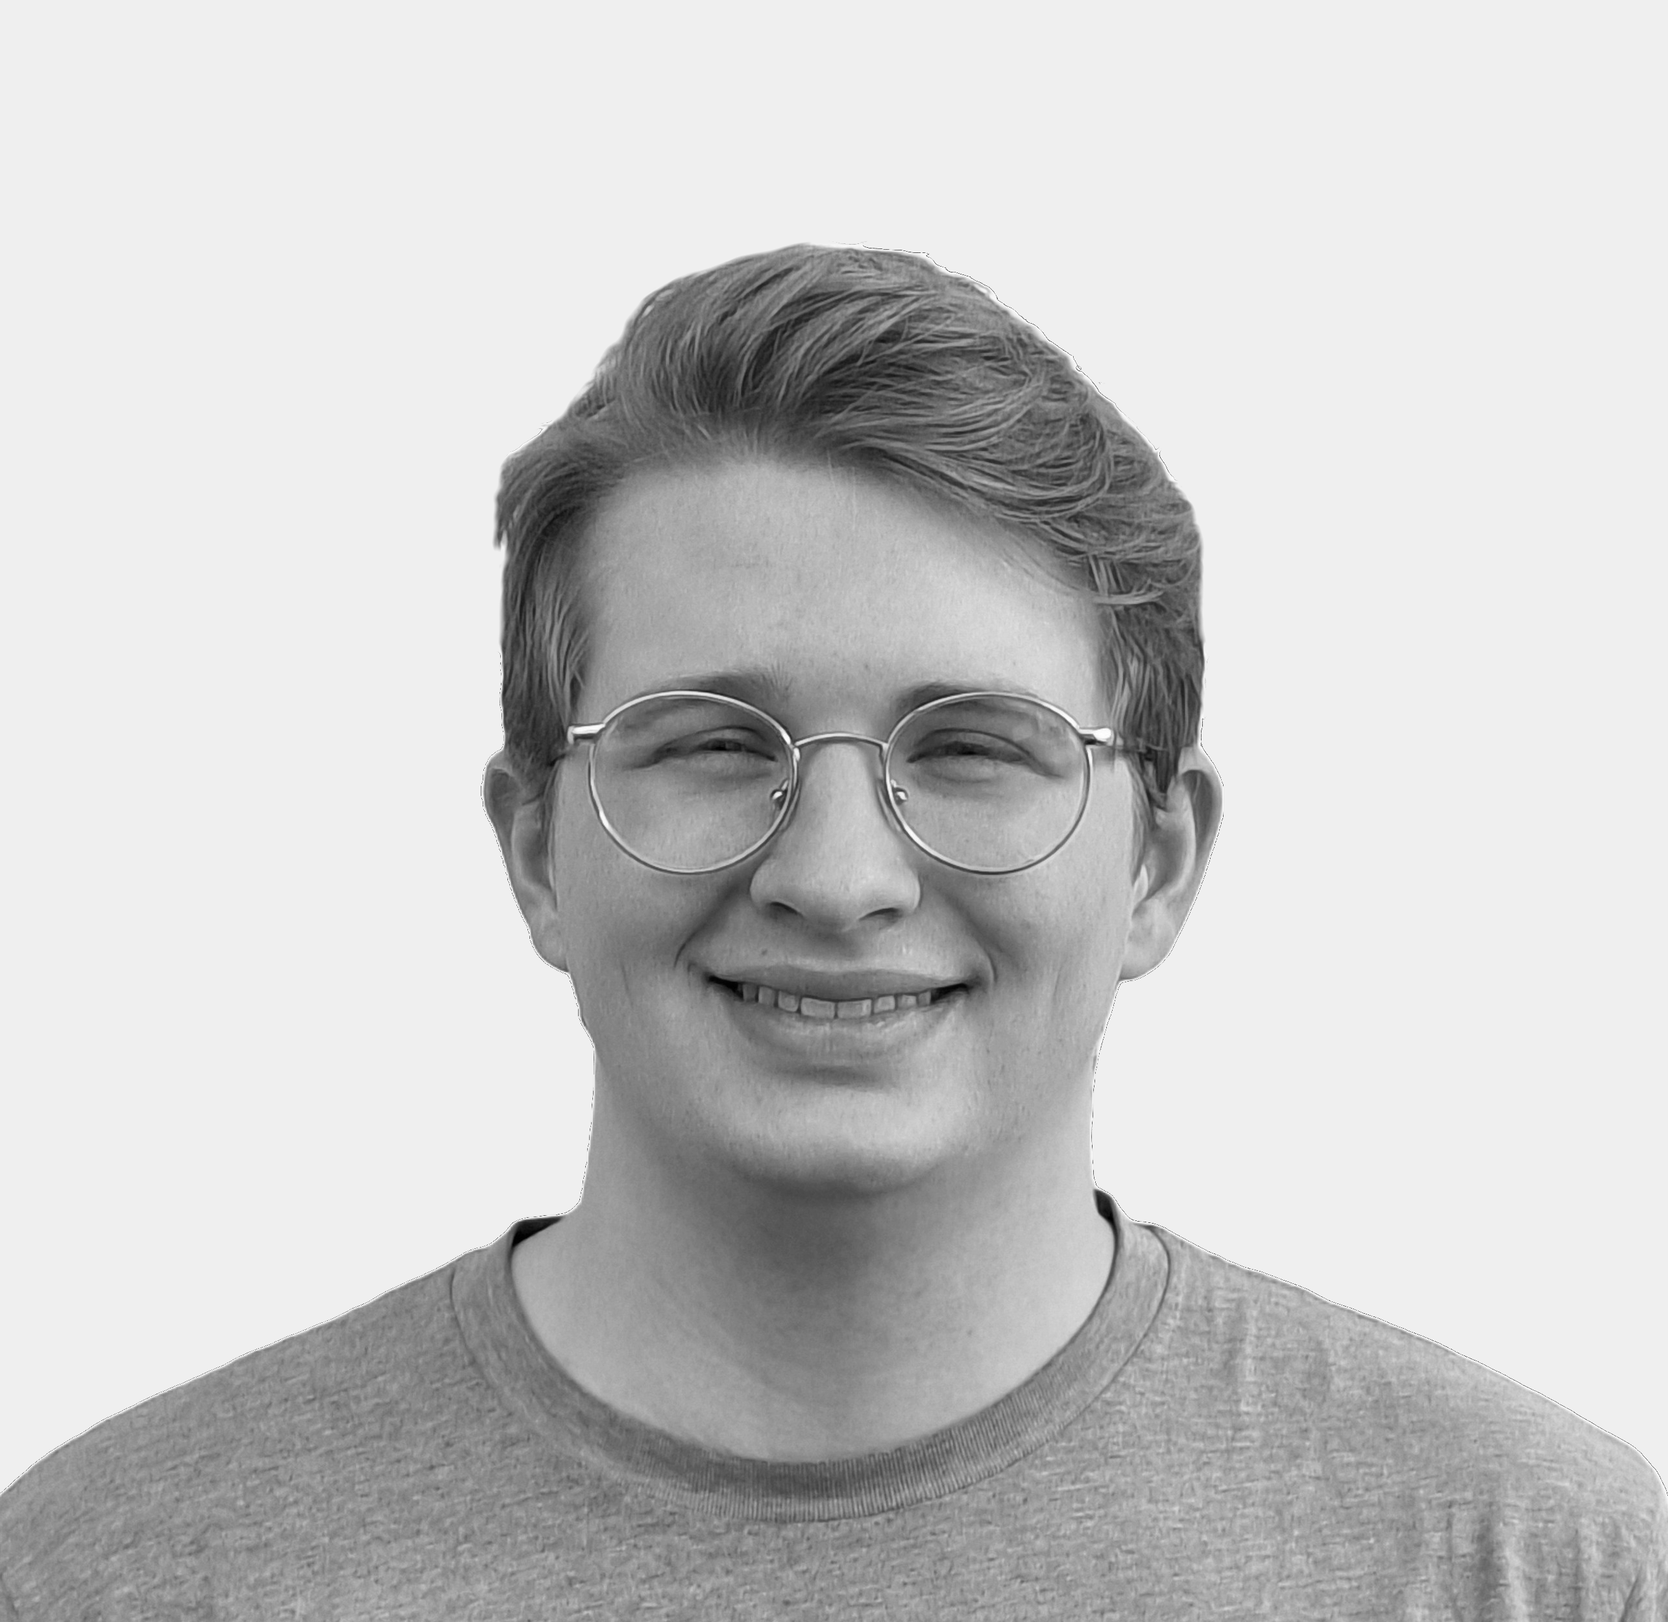
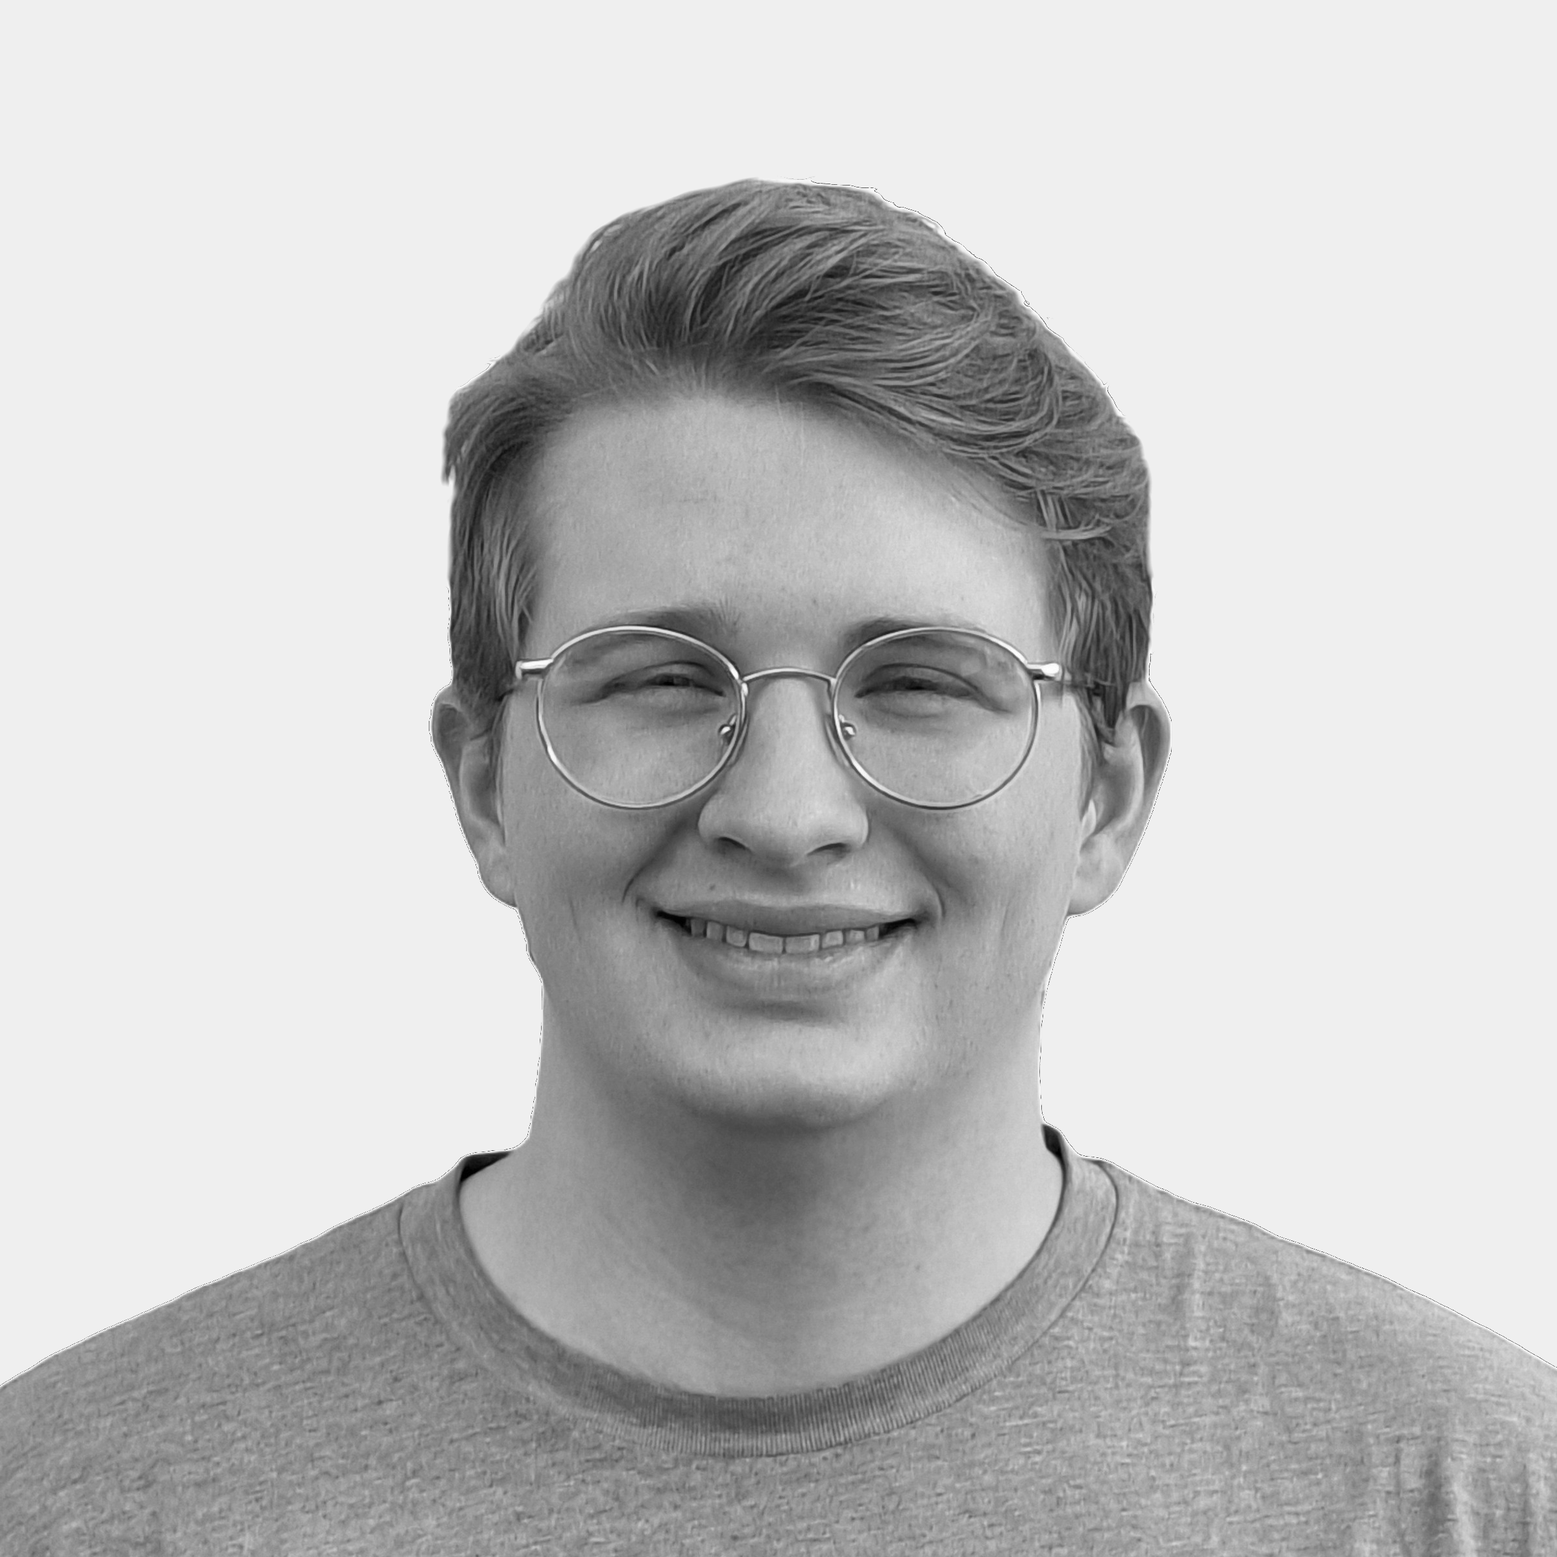
Added Michael, Anant, and Mike. Moved Blake to alumni. Fixed picture size of Zack and Ty

diff --git a/people.html b/people.html
@@ -165,8 +165,21 @@ http://themeforest.net/user/owwwlab/
                       </div>
                       <div class="links"><a href="about.html" target="_blank" data-toggle="tooltip"
                           data-original-title="Personal WebPage"><i
-                            class="oli oli-user_male_circle"></i></a><!--<a href="#" data-toggle="tooltip" data-original-title="Linkedin profile" data-toggle="tooltip"><i class="oli oli-linkedin"></i></a><a href="#" data-toggle="tooltip" data-original-title="Facebook"><i class="oli oli-facebook"></i></a><a href="#" data-toggle="tooltip" data-original-title="Twitter"><i class="oli oli-twitter"></i></a>-->
+                            class="oli oli-user_male_circle"></i></a>
                       </div>
+                    </div>
+                  </div>
+
+                  <div class="col-xs-6 col-md-4">
+                    <div class="vc-card boxed"><img src="assets/img/people/michael_s.png" alt="people">
+                      <div class="vc-card-wrapper">
+                        <div class="title">Dr. Michael Sutherlin</div>
+                        <div class="subtitle">Associate Director</div>
+                      </div>
+                      <!-- <div class="links"><a href="" target="_blank"
+                           data-original-title="Linkedin profile" data-toggle="tooltip"><i
+                             class="oli oli-linkedin"></i></a>
+                           </div> -->
                     </div>
                   </div>
 
@@ -178,7 +191,7 @@ http://themeforest.net/user/owwwlab/
                       </div>
                       <div class="links"><a href="https://www.linkedin.com/in/jack-marquez/" target="_blank"
                           data-original-title="Linkedin profile" data-toggle="tooltip" data-toggle="tooltip"><i
-                            class="oli oli-linkedin"></i></a><!--<a href="#" data-toggle="tooltip" data-original-title="Google+"><i class="oli oli-googleplus"></i></a><a href="#" data-toggle="tooltip" data-original-title="Linedin"><i class="oli oli-linkedin"></i></a><a href="#" data-toggle="tooltip" data-original-title="Facebook"><i class="oli oli-facebook"></i></a><a href="#" data-toggle="tooltip" data-original-title="Twitter"><i class="oli oli-twitter"></i></a>-->
+                            class="oli oli-linkedin"></i></a>
                       </div>
                     </div>
                   </div>
@@ -191,7 +204,7 @@ http://themeforest.net/user/owwwlab/
                       </div>
                       <div class="links"><a href="https://www.linkedin.com/in/kin-wai-ng-4ba793173/" target="_blank"
                           data-original-title="Linkedin profile" data-toggle="tooltip" data-toggle="tooltip"><i
-                            class="oli oli-linkedin"></i></a><!--<a href="#" data-toggle="tooltip" data-original-title="Google+"><i class="oli oli-googleplus"></i></a><a href="#" data-toggle="tooltip" data-original-title="Linedin"><i class="oli oli-linkedin"></i></a><a href="#" data-toggle="tooltip" data-original-title="Facebook"><i class="oli oli-facebook"></i></a><a href="#" data-toggle="tooltip" data-original-title="Twitter"><i class="oli oli-twitter"></i></a>-->
+                            class="oli oli-linkedin"></i></a>
                       </div>
                     </div>
                   </div>
@@ -205,7 +218,7 @@ http://themeforest.net/user/owwwlab/
                       </div>
                       <div class="links"><a href="https://www.linkedin.com/in/dalalsukkari/" target="_blank"
                           data-original-title="Linkedin profile" data-toggle="tooltip"><i
-                            class="oli oli-linkedin"></i></a><!--<a href="#" data-toggle="tooltip" data-original-title="Google+"><i class="oli oli-googleplus"></i></a><a href="#" data-toggle="tooltip" data-original-title="Linedin"><i class="oli oli-linkedin"></i></a><a href="#" data-toggle="tooltip" data-original-title="Facebook"><i class="oli oli-facebook"></i></a><a href="#" data-toggle="tooltip" data-original-title="Twitter"><i class="oli oli-twitter"></i></a>-->
+                            class="oli oli-linkedin"></i></a>
                       </div>
                     </div>
                   </div>
@@ -218,7 +231,7 @@ http://themeforest.net/user/owwwlab/
                       </div>
                       <div class="links"><a href="https://www.linkedin.com/in/nigel-tan-bb711a133/" target="_blank"
                           data-original-title="Linkedin profile" data-toggle="tooltip"><i
-                            class="oli oli-linkedin"></i></a><!--<a href="#" data-toggle="tooltip" data-original-title="Google+"><i class="oli oli-googleplus"></i></a><a href="#" data-toggle="tooltip" data-original-title="Linedin"><i class="oli oli-linkedin"></i></a><a href="#" data-toggle="tooltip" data-original-title="Facebook"><i class="oli oli-facebook"></i></a><a href="#" data-toggle="tooltip" data-original-title="Twitter"><i class="oli oli-twitter"></i></a>-->
+                            class="oli oli-linkedin"></i></a>
                       </div>
                     </div>
                   </div>
@@ -231,7 +244,7 @@ http://themeforest.net/user/owwwlab/
                       </div>
                       <div class="links"><a href="https://www.linkedin.com/in/heberth-mart%C3%ADnez-357791172/"
                           target="_blank" data-original-title="Linkedin profile" data-toggle="tooltip"><i
-                            class="oli oli-linkedin"></i></a><!--<a href="#" data-toggle="tooltip" data-original-title="Google+"><i class="oli oli-googleplus"></i></a><a href="#" data-toggle="tooltip" data-original-title="Linedin"><i class="oli oli-linkedin"></i></a><a href="#" data-toggle="tooltip" data-original-title="Facebook"><i class="oli oli-facebook"></i></a><a href="#" data-toggle="tooltip" data-original-title="Twitter"><i class="oli oli-twitter"></i></a>-->
+                            class="oli oli-linkedin"></i></a>
                       </div>
                     </div>
                   </div>
@@ -246,7 +259,7 @@ http://themeforest.net/user/owwwlab/
                           data-original-title="Linkedin profile" data-toggle="tooltip"><i
                             class="oli oli-linkedin"></i></a><a href="https://ilumsden.github.io/" target="_blank"
                           data-toggle="tooltip" data-original-title="Personal WebPage2"><i
-                            class="oli oli-user_male_circle"></i></a><!--<a href="#" data-toggle="tooltip" data-original-title="Google+"><i class="oli oli-googleplus"></i></a><a href="#" data-toggle="tooltip" data-original-title="Linedin"><i class="oli oli-linkedin"></i></a><a href="#" data-toggle="tooltip" data-original-title="Facebook"><i class="oli oli-facebook"></i></a><a href="#" data-toggle="tooltip" data-original-title="Twitter"><i class="oli oli-twitter"></i></a>-->
+                            class="oli oli-user_male_circle"></i></a>
                       </div>
                     </div>
                   </div>
@@ -255,11 +268,11 @@ http://themeforest.net/user/owwwlab/
                     <div class="vc-card boxed"><img src="assets/img/people/befikir.png" alt="people">
                       <div class="vc-card-wrapper">
                         <div class="title">Befikir Bogale</div>
-                        <div class="subtitle">Doctoral Student <br> </div>
+                        <div class="subtitle">Doctoral Student</div>
                       </div>
                       <div class="links"><a href="https://www.linkedin.com/in/befikir-bogale" target="_blank"
                           data-original-title="Linkedin profile" data-toggle="tooltip"><i
-                            class="oli oli-linkedin"></i></a><!--<a href="#" data-toggle="tooltip" data-original-title="Google+"><i class="oli oli-googleplus"></i></a><a href="#" data-toggle="tooltip" data-original-title="Linedin"><i class="oli oli-linkedin"></i></a><a href="#" data-toggle="tooltip" data-original-title="Facebook"><i class="oli oli-facebook"></i></a><a href="#" data-toggle="tooltip" data-original-title="Twitter"><i class="oli oli-twitter"></i></a>-->
+                            class="oli oli-linkedin"></i></a>
                       </div>
                     </div>
                   </div>
@@ -268,11 +281,11 @@ http://themeforest.net/user/owwwlab/
                     <div class="vc-card boxed"><img src="assets/img/people/zmalkmus.png" alt="people">
                       <div class="vc-card-wrapper">
                         <div class="title">Zack Malkmus</div>
-                        <div class="subtitle">Master's Student<br> </div>
+                        <div class="subtitle">Master's Student</div>
                       </div>
                       <div class="links"><a href="https://www.linkedin.com/in/zackary-malkmus-4518461b3/" target="_blank"
                           data-original-title="Linkedin profile" data-toggle="tooltip"><i
-                            class="oli oli-linkedin"></i></a><!--<a href="#" data-toggle="tooltip" data-original-title="Google+"><i class="oli oli-googleplus"></i></a><a href="#" data-toggle="tooltip" data-original-title="Linedin"><i class="oli oli-linkedin"></i></a><a href="#" data-toggle="tooltip" data-original-title="Facebook"><i class="oli oli-facebook"></i></a><a href="#" data-toggle="tooltip" data-original-title="Twitter"><i class="oli oli-twitter"></i></a>-->
+                            class="oli oli-linkedin"></i></a>
                       </div>
                     </div>
                   </div>
@@ -285,7 +298,7 @@ http://themeforest.net/user/owwwlab/
                       </div>
                       <div class="links"><a href="https://www.linkedin.com/in/washwor1/" target="_blank"
                           data-original-title="Linkedin profile" data-toggle="tooltip"><i
-                            class="oli oli-linkedin"></i></a><!--<a href="#" data-toggle="tooltip" data-original-title="Google+"><i class="oli oli-googleplus"></i></a><a href="#" data-toggle="tooltip" data-original-title="Linedin"><i class="oli oli-linkedin"></i></a><a href="#" data-toggle="tooltip" data-original-title="Facebook"><i class="oli oli-facebook"></i></a><a href="#" data-toggle="tooltip" data-original-title="Twitter"><i class="oli oli-twitter"></i></a>-->
+                            class="oli oli-linkedin"></i></a>
                       </div>
                     </div>
                   </div>
@@ -298,20 +311,7 @@ http://themeforest.net/user/owwwlab/
                       </div>
                       <div class="links"><a href="https://www.linkedin.com/in/glaboy/" target="_blank"
                           data-original-title="Linkedin profile" data-toggle="tooltip"><i
-                            class="oli oli-linkedin"></i></a><!--<a href="#" data-toggle="tooltip" data-original-title="Google+"><i class="oli oli-googleplus"></i></a><a href="#" data-toggle="tooltip" data-original-title="Linedin"><i class="oli oli-linkedin"></i></a><a href="#" data-toggle="tooltip" data-original-title="Facebook"><i class="oli oli-facebook"></i></a><a href="#" data-toggle="tooltip" data-original-title="Twitter"><i class="oli oli-twitter"></i></a>-->
-                      </div>
-                    </div>
-                  </div>
-
-                  <div class="col-xs-6 col-md-4">
-                    <div class="vc-card boxed"><img src="assets/img/people/blake.png" alt="people">
-                      <div class="vc-card-wrapper">
-                        <div class="title">Blake Milstead</div>
-                        <div class="subtitle">Undergraduate Student <br> </div>
-                      </div>
-                      <div class="links"><a href="https://www.linkedin.com/in/blake-milstead-140449210" target="_blank"
-                          data-original-title="Linkedin profile" data-toggle="tooltip"><i
-                            class="oli oli-linkedin"></i></a><!--<a href="#" data-toggle="tooltip" data-original-title="Google+"><i class="oli oli-googleplus"></i></a><a href="#" data-toggle="tooltip" data-original-title="Linedin"><i class="oli oli-linkedin"></i></a><a href="#" data-toggle="tooltip" data-original-title="Facebook"><i class="oli oli-facebook"></i></a><a href="#" data-toggle="tooltip" data-original-title="Twitter"><i class="oli oli-twitter"></i></a>-->
+                            class="oli oli-linkedin"></i></a>
                       </div>
                     </div>
                   </div>
@@ -320,12 +320,38 @@ http://themeforest.net/user/owwwlab/
                     <div class="vc-card boxed"><img src="assets/img/people/tanderson.png" alt="people">
                       <div class="vc-card-wrapper">
                         <div class="title">Ty Anderson</div>
-                        <div class="subtitle">Undergraduate Student <br> </div>
+                        <div class="subtitle">Undergraduate Student</div>
                       </div>
                       <div class="links">
                         <a href="https://www.linkedin.com/in/ty-anderson-b89001211/" target="_blank"
                           data-original-title="Linkedin profile" data-toggle="tooltip"><i
-                            class="oli oli-linkedin"></i></a><!--<a href="#" data-toggle="tooltip" data-original-title="Google+"><i class="oli oli-googleplus"></i></a><a href="#" data-toggle="tooltip" data-original-title="Linedin"><i class="oli oli-linkedin"></i></a><a href="#" data-toggle="tooltip" data-original-title="Facebook"><i class="oli oli-facebook"></i></a><a href="#" data-toggle="tooltip" data-original-title="Twitter"><i class="oli oli-twitter"></i></a>-->
+                            class="oli oli-linkedin"></i></a>
+                      </div>
+                    </div>
+                  </div>
+
+                  <div class="col-xs-6 col-md-4">
+                    <div class="vc-card boxed"><img src="assets/img/people/anant.png" alt="people">
+                      <div class="vc-card-wrapper">
+                        <div class="title">Anant Jeet Sahoo</div>
+                        <div class="subtitle">Undergraduate Student</div>
+                      </div>
+                      <div class="links"><a href="https://www.linkedin.com/in/anant-j-sahoo/" target="_blank"
+                          data-original-title="Linkedin profile" data-toggle="tooltip"><i
+                            class="oli oli-linkedin"></i></a>
+                      </div>
+                    </div>
+                  </div>
+
+                  <div class="col-xs-6 col-md-4">
+                    <div class="vc-card boxed"><img src="assets/img/people/michael_l.png" alt="people">
+                      <div class="vc-card-wrapper">
+                        <div class="title">Michael Lisenko</div>
+                        <div class="subtitle">Undergraduate Student</div>
+                      </div>
+                      <div class="links"><a href="https://www.linkedin.com/in/michael-lisenko-165217236/" target="_blank"
+                          data-original-title="Linkedin profile" data-toggle="tooltip"><i
+                            class="oli oli-linkedin"></i></a>
                       </div>
                     </div>
                   </div>
@@ -336,9 +362,7 @@ http://themeforest.net/user/owwwlab/
                         <div class="title">Barbara Fossum</div>
                         <div class="subtitle">Outreach Coordinator</div>
                       </div>
-                      <div class="links">
-                        <!--<a href="https://www.linkedin.com/in/matthew-dixson-9650ab15a/" target="_blank" data-original-title="Linkedin profile" data-toggle="tooltip"><i class="oli oli-linkedin"></i></a>--><!--<a href="#" data-toggle="tooltip" data-original-title="Google+"><i class="oli oli-googleplus"></i></a><a href="#" data-toggle="tooltip" data-original-title="Linedin"><i class="oli oli-linkedin"></i></a><a href="#" data-toggle="tooltip" data-original-title="Facebook"><i class="oli oli-facebook"></i></a><a href="#" data-toggle="tooltip" data-original-title="Twitter"><i class="oli oli-twitter"></i></a>-->
-                      </div>
+                      <div class="links"></div>
                     </div>
                   </div>
 
@@ -349,7 +373,6 @@ http://themeforest.net/user/owwwlab/
                         <div class="subtitle">Assistant Director</div>
                       </div>
                       <div class="links">
-                        <!--<a href="https://www.linkedin.com/in/matthew-dixson-9650ab15a/" target="_blank" data-original-title="Linkedin profile" data-toggle="tooltip"><i class="oli oli-linkedin"></i></a>--><!--<a href="#" data-toggle="tooltip" data-original-title="Google+"><i class="oli oli-googleplus"></i></a><a href="#" data-toggle="tooltip" data-original-title="Linedin"><i class="oli oli-linkedin"></i></a><a href="#" data-toggle="tooltip" data-original-title="Facebook"><i class="oli oli-facebook"></i></a><a href="#" data-toggle="tooltip" data-original-title="Twitter"><i class="oli oli-twitter"></i></a>-->
                       </div>
                     </div>
                   </div>
@@ -401,6 +424,20 @@ http://themeforest.net/user/owwwlab/
                       </div>
                     </div>
                   </div>
+
+                  <div class="col-xs-6 col-md-4">
+                    <div class="vc-card boxed"><img src="assets/img/people/blake.png" alt="people">
+                      <div class="vc-card-wrapper">
+                        <div class="title">Blake Milstead</div>
+                        <div class="subtitle">Undergraduate Student <br> </div>
+                      </div>
+                      <div class="links"><a href="https://www.linkedin.com/in/blake-milstead-140449210" target="_blank"
+                          data-original-title="Linkedin profile" data-toggle="tooltip"><i
+                            class="oli oli-linkedin"></i></a><!--<a href="#" data-toggle="tooltip" data-original-title="Google+"><i class="oli oli-googleplus"></i></a><a href="#" data-toggle="tooltip" data-original-title="Linedin"><i class="oli oli-linkedin"></i></a><a href="#" data-toggle="tooltip" data-original-title="Facebook"><i class="oli oli-facebook"></i></a><a href="#" data-toggle="tooltip" data-original-title="Twitter"><i class="oli oli-twitter"></i></a>-->
+                      </div>
+                    </div>
+                  </div>
+
                   <div class="col-xs-6 col-md-4">
                     <div class="vc-card boxed"><img src="assets/img/people/tippit.png" alt="people">
                       <div class="vc-card-wrapper">
